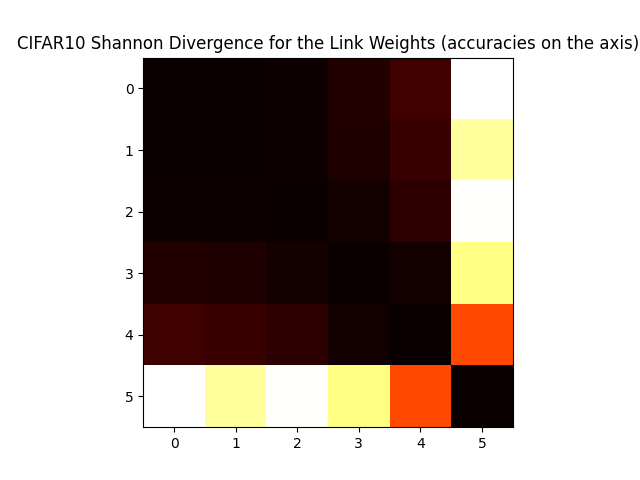
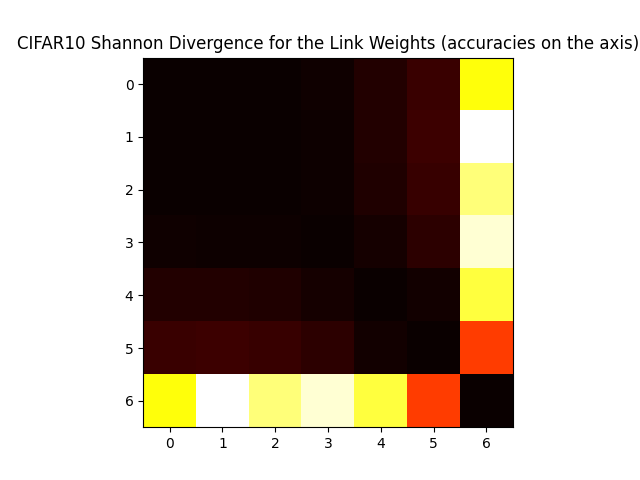
CNN local results

diff --git a/plot_generator_cnn.py b/plot_generator_cnn.py
@@ -65,7 +65,7 @@ num_std_dev = float(args.num_std_dev)
 if len(init)>0 and '*' not in init:
     print("[logger-WARNING]: Your init technique might require a * at the end, otherwise the filtering will be strict on the patter --init={}".format(init))
 
-ranges_accuracy = np.arange(0., 0.71, bins_size)
+ranges_accuracy = np.arange(0.1, 0.8, bins_size)
 input_shape, output_size = ((28,28,1) if dataset=='MNIST' else (32,32,3)), 10
 num_conv_layers = 4
 paddings, strides = tuple([0 for _ in range(num_conv_layers)]), tuple([1 for _ in range(num_conv_layers)])
